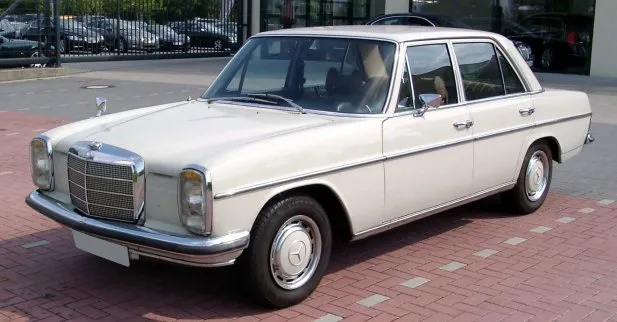
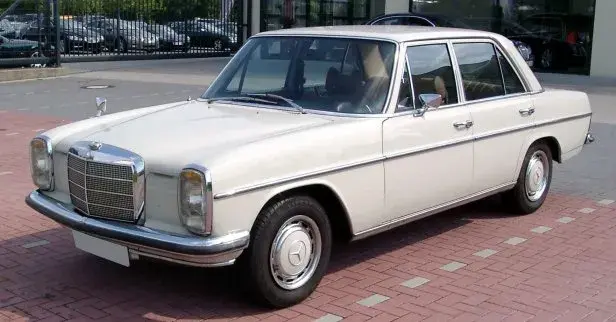
246

diff --git a/pic/ja_mb_img_e.html b/pic/ja_mb_img_e.html
@@ -486,7 +486,7 @@
 					</div>
 					<section>
 						<h4 class="displayNone">W114/W115</h4>
-						<a href="full/e/w115_f.jpg"><img loading="lazy" src="style/e/w115_f.webp" alt="メルセデス,W115,フロント" width="617" height="322"></a>
+						<a href="full/e/w115_f.jpg"><img loading="lazy" src="style/e/w115_f.webp" alt="メルセデス,W115,フロント" width="616" height="322"></a>
 						<a href="full/e/w115_r.jpg"><img loading="lazy" src="style/e/w115_r.webp" alt="メルセデス,W115,リヤ" width="589" height="322"></a><br>
 						<a href="full/e/w115_d.jpg"><img loading="lazy" src="style/e/w115_d.webp" alt="メルセデス,W115,ダッシュボード" width="1210" height="877"></a><br>
 						<h5 class="i">Facelift</h5>

diff --git a/pic/mb_img_e.html b/pic/mb_img_e.html
@@ -486,7 +486,7 @@
 					</div>
 					<section>
 						<h4 class="displayNone">W114/W115</h4>
-						<a href="full/e/w115_f.jpg"><img loading="lazy" src="style/e/w115_f.webp" alt="Mercedes,W115,Frontansicht" width="617" height="322"></a>
+						<a href="full/e/w115_f.jpg"><img loading="lazy" src="style/e/w115_f.webp" alt="Mercedes,W115,Frontansicht" width="616" height="322"></a>
 						<a href="full/e/w115_r.jpg"><img loading="lazy" src="style/e/w115_r.webp" alt="Mercedes,W115,Rückansicht" width="589" height="322"></a><br>
 						<a href="full/e/w115_d.jpg"><img loading="lazy" src="style/e/w115_d.webp" alt="Mercedes,W115,Instrumententafel" width="1210" height="877"></a><br>
 						<h5 class="i">Modellpflege</h5>

diff --git a/pic/en_mb_img_e.html b/pic/en_mb_img_e.html
@@ -486,7 +486,7 @@
 					</div>
 					<section>
 						<h4 class="displayNone">W114/W115</h4>
-						<a href="full/e/w115_f.jpg"><img loading="lazy" src="style/e/w115_f.webp" alt="Mercedes,W115,Front view" width="617" height="322"></a>
+						<a href="full/e/w115_f.jpg"><img loading="lazy" src="style/e/w115_f.webp" alt="Mercedes,W115,Front view" width="616" height="322"></a>
 						<a href="full/e/w115_r.jpg"><img loading="lazy" src="style/e/w115_r.webp" alt="Mercedes,W115,Rear view" width="589" height="322"></a><br>
 						<a href="full/e/w115_d.jpg"><img loading="lazy" src="style/e/w115_d.webp" alt="Mercedes,W115,Dashboard" width="1210" height="877"></a><br>
 						<h5 class="i">Facelift</h5>
